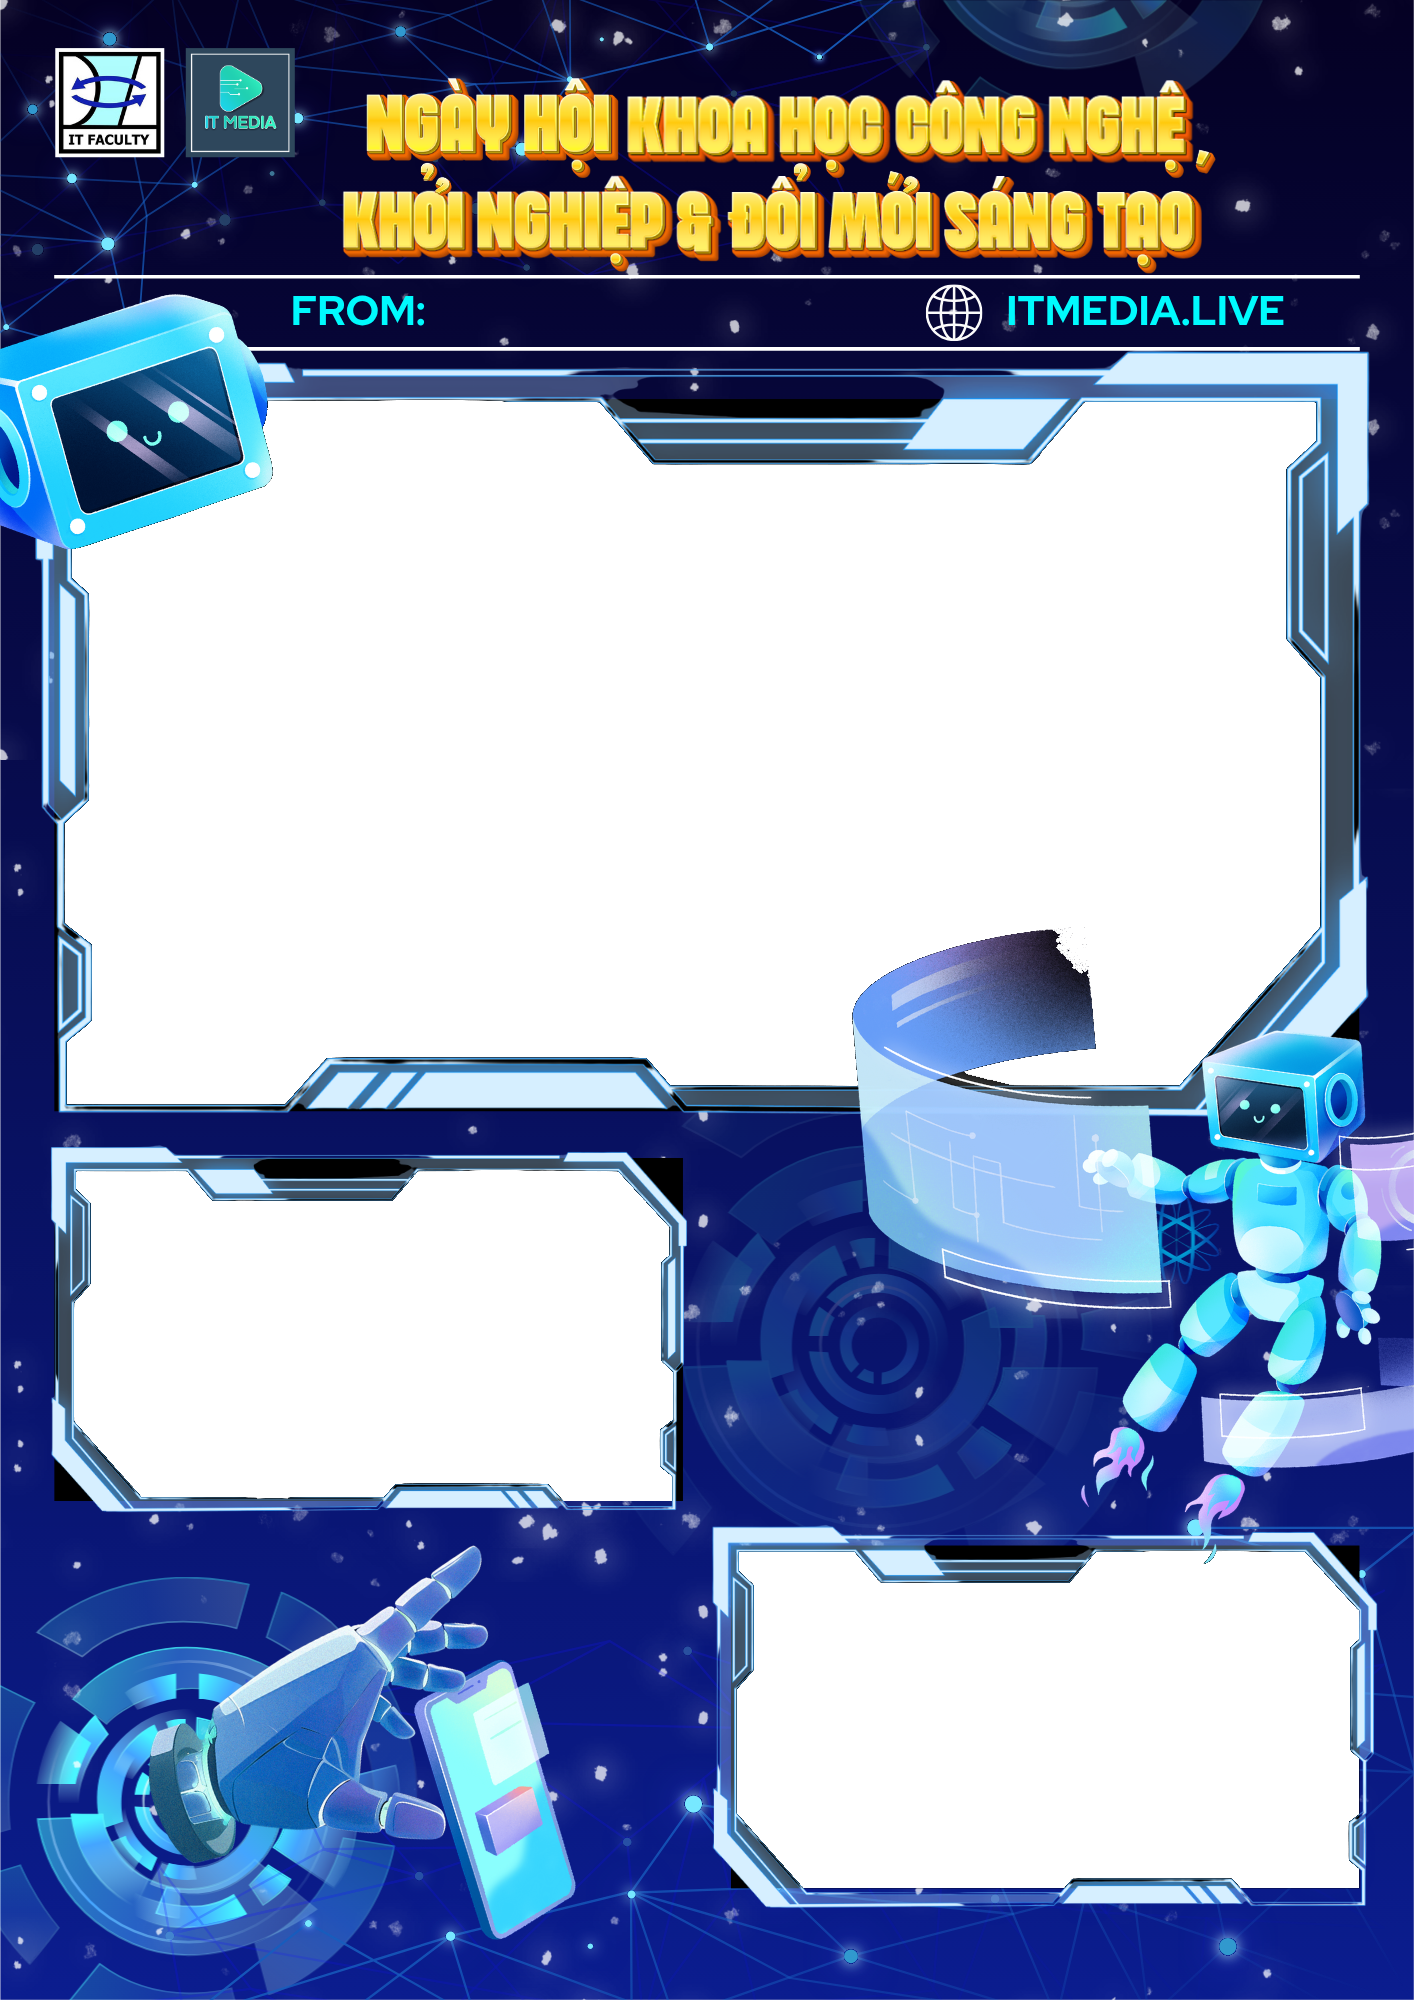
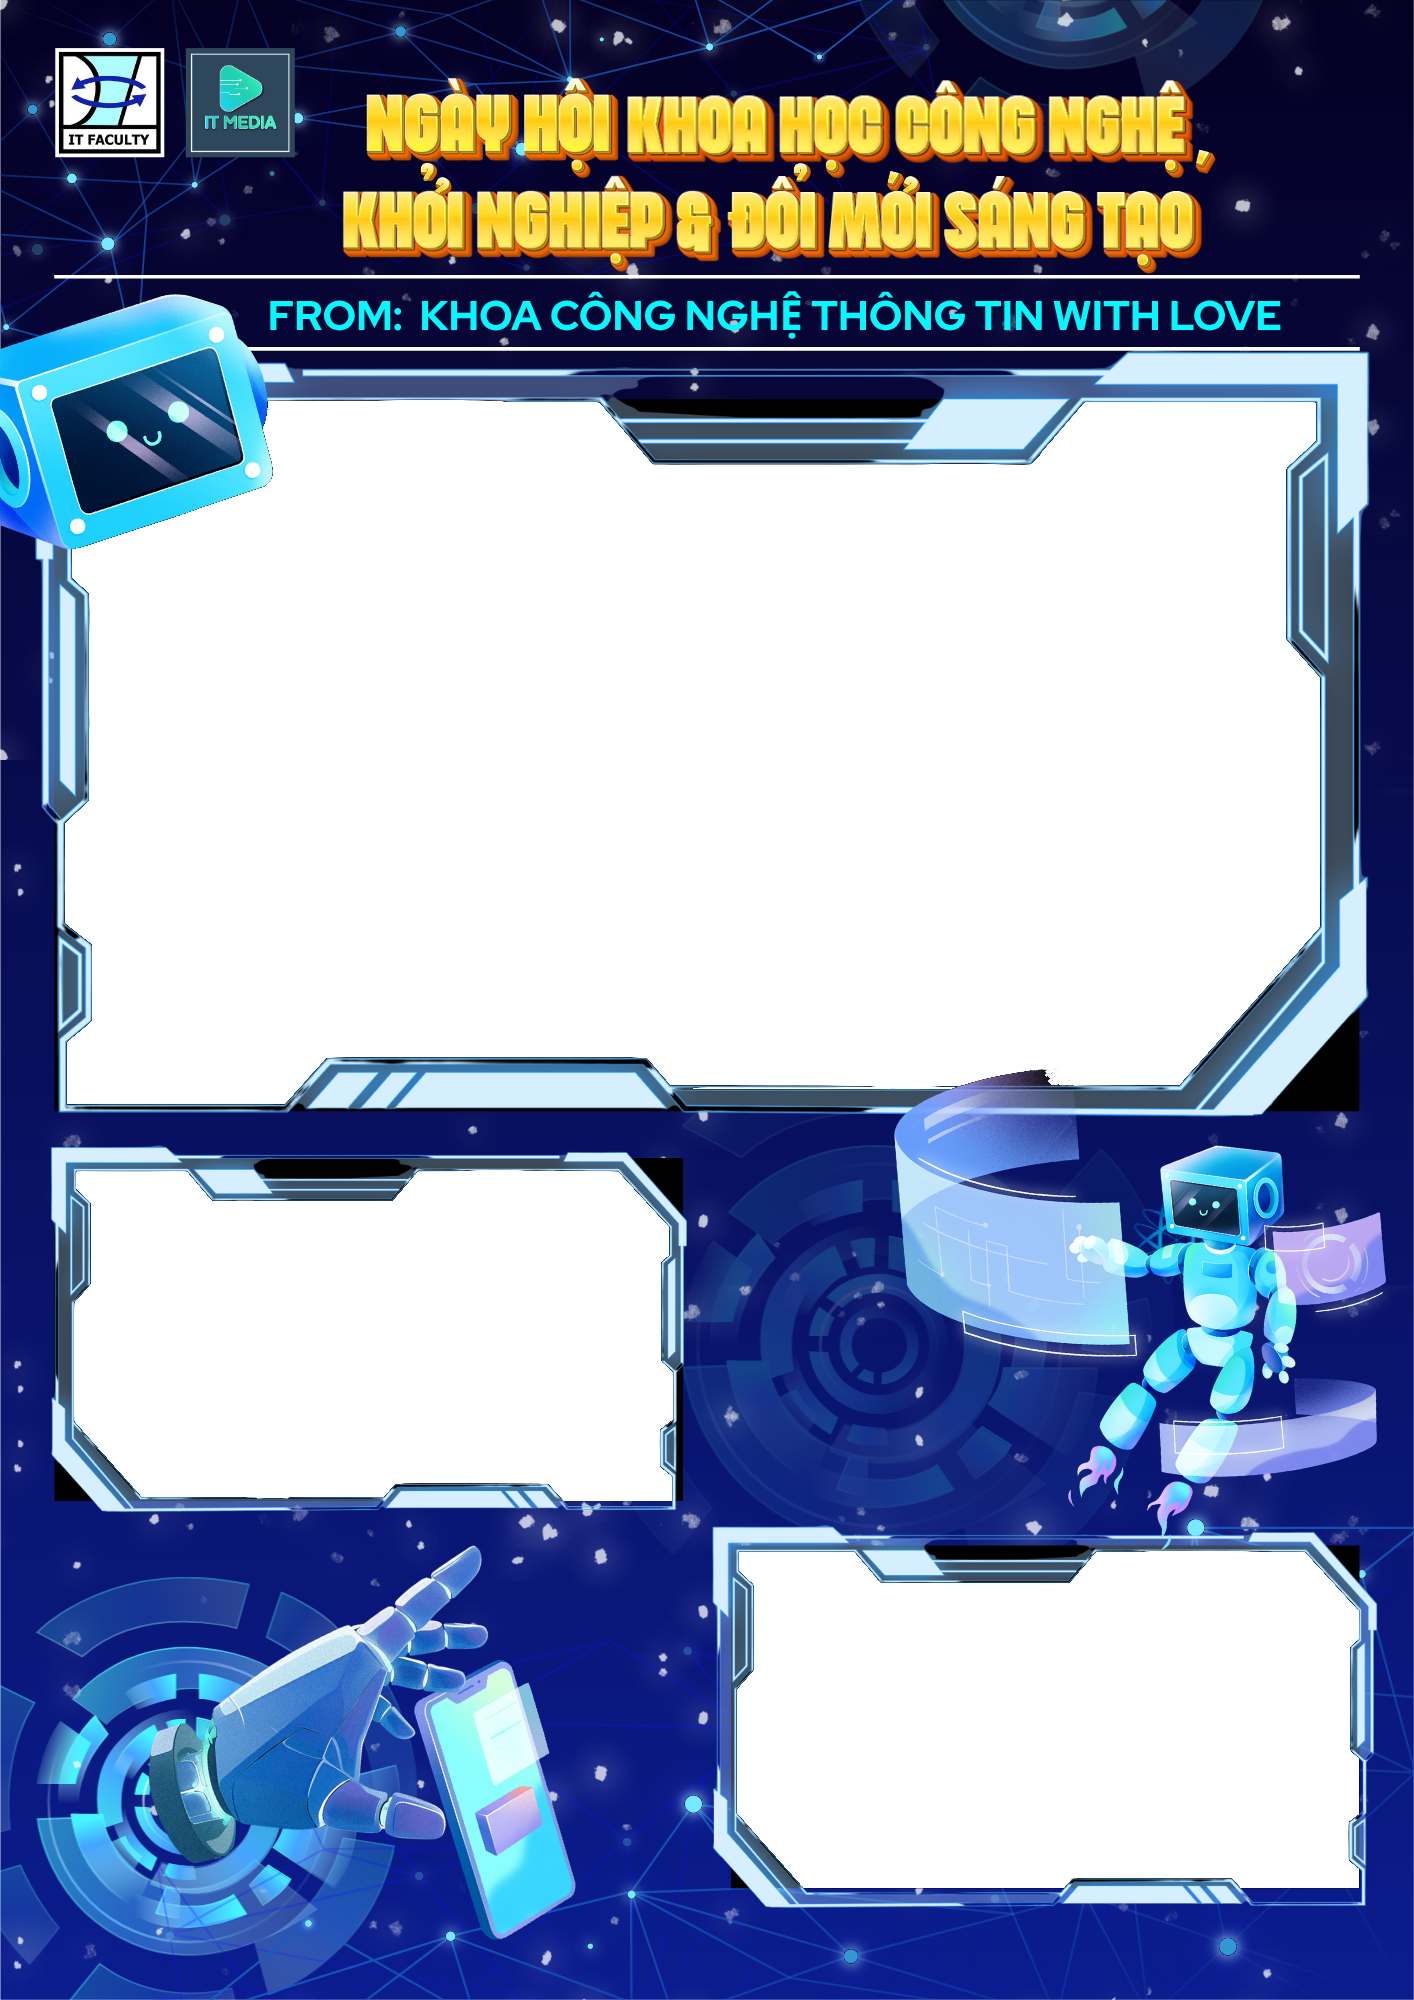
feat: update frame bk techshow

Changed region(s): [[0.5912, 0.465, 1.0, 0.775], [0.5912, 0.124, 0.9024, 0.186], [0.1867, 0.124, 0.5601, 0.186]]

diff --git a/app/share/[id]/page.tsx b/app/share/[id]/page.tsx
@@ -296,7 +296,7 @@ export default function SharePage({ params }: { params: Promise<{ id: string }> 
                 <div className="text-center space-y-2 pb-4">
                     <h1 className="text-2xl font-bold text-gray-900 tracking-tight">Kỷ Niệm Của Bạn</h1>
                     <p className="text-sm font-medium text-gray-600 uppercase tracking-widest flex items-center justify-center gap-1">
-                        📍 Trình Cà Phê - Phố Đi Bộ Bạch Đằng
+                        Liên Chi đoàn Khoa Công nghệ Thông tin
                     </p>
                 </div>
 

diff --git a/components/photobooth/all-in-one/CaptureLayout.tsx b/components/photobooth/all-in-one/CaptureLayout.tsx
@@ -217,7 +217,7 @@ export const CaptureLayout = ({ webcamRef }: CaptureLayoutProps) => {
                 </div>
                 <div className="flex flex-col items-center gap-2">
                     <div className="text-sm font-bold text-gray-800 uppercase tracking-wide">
-                        📍 Trình Cà Phê - Phố Đi Bộ Bạch Đằng
+                        📍 Liên Chi đoàn Khoa Công nghệ Thông tin
                     </div>
                     <div className="px-6 py-2 rounded-full bg-black/5 border border-black/10 text-lg font-medium text-black">
                         {step === 'CONFIG' ? 'Chọn thời gian chụp' : 'Đang chụp ảnh...'}